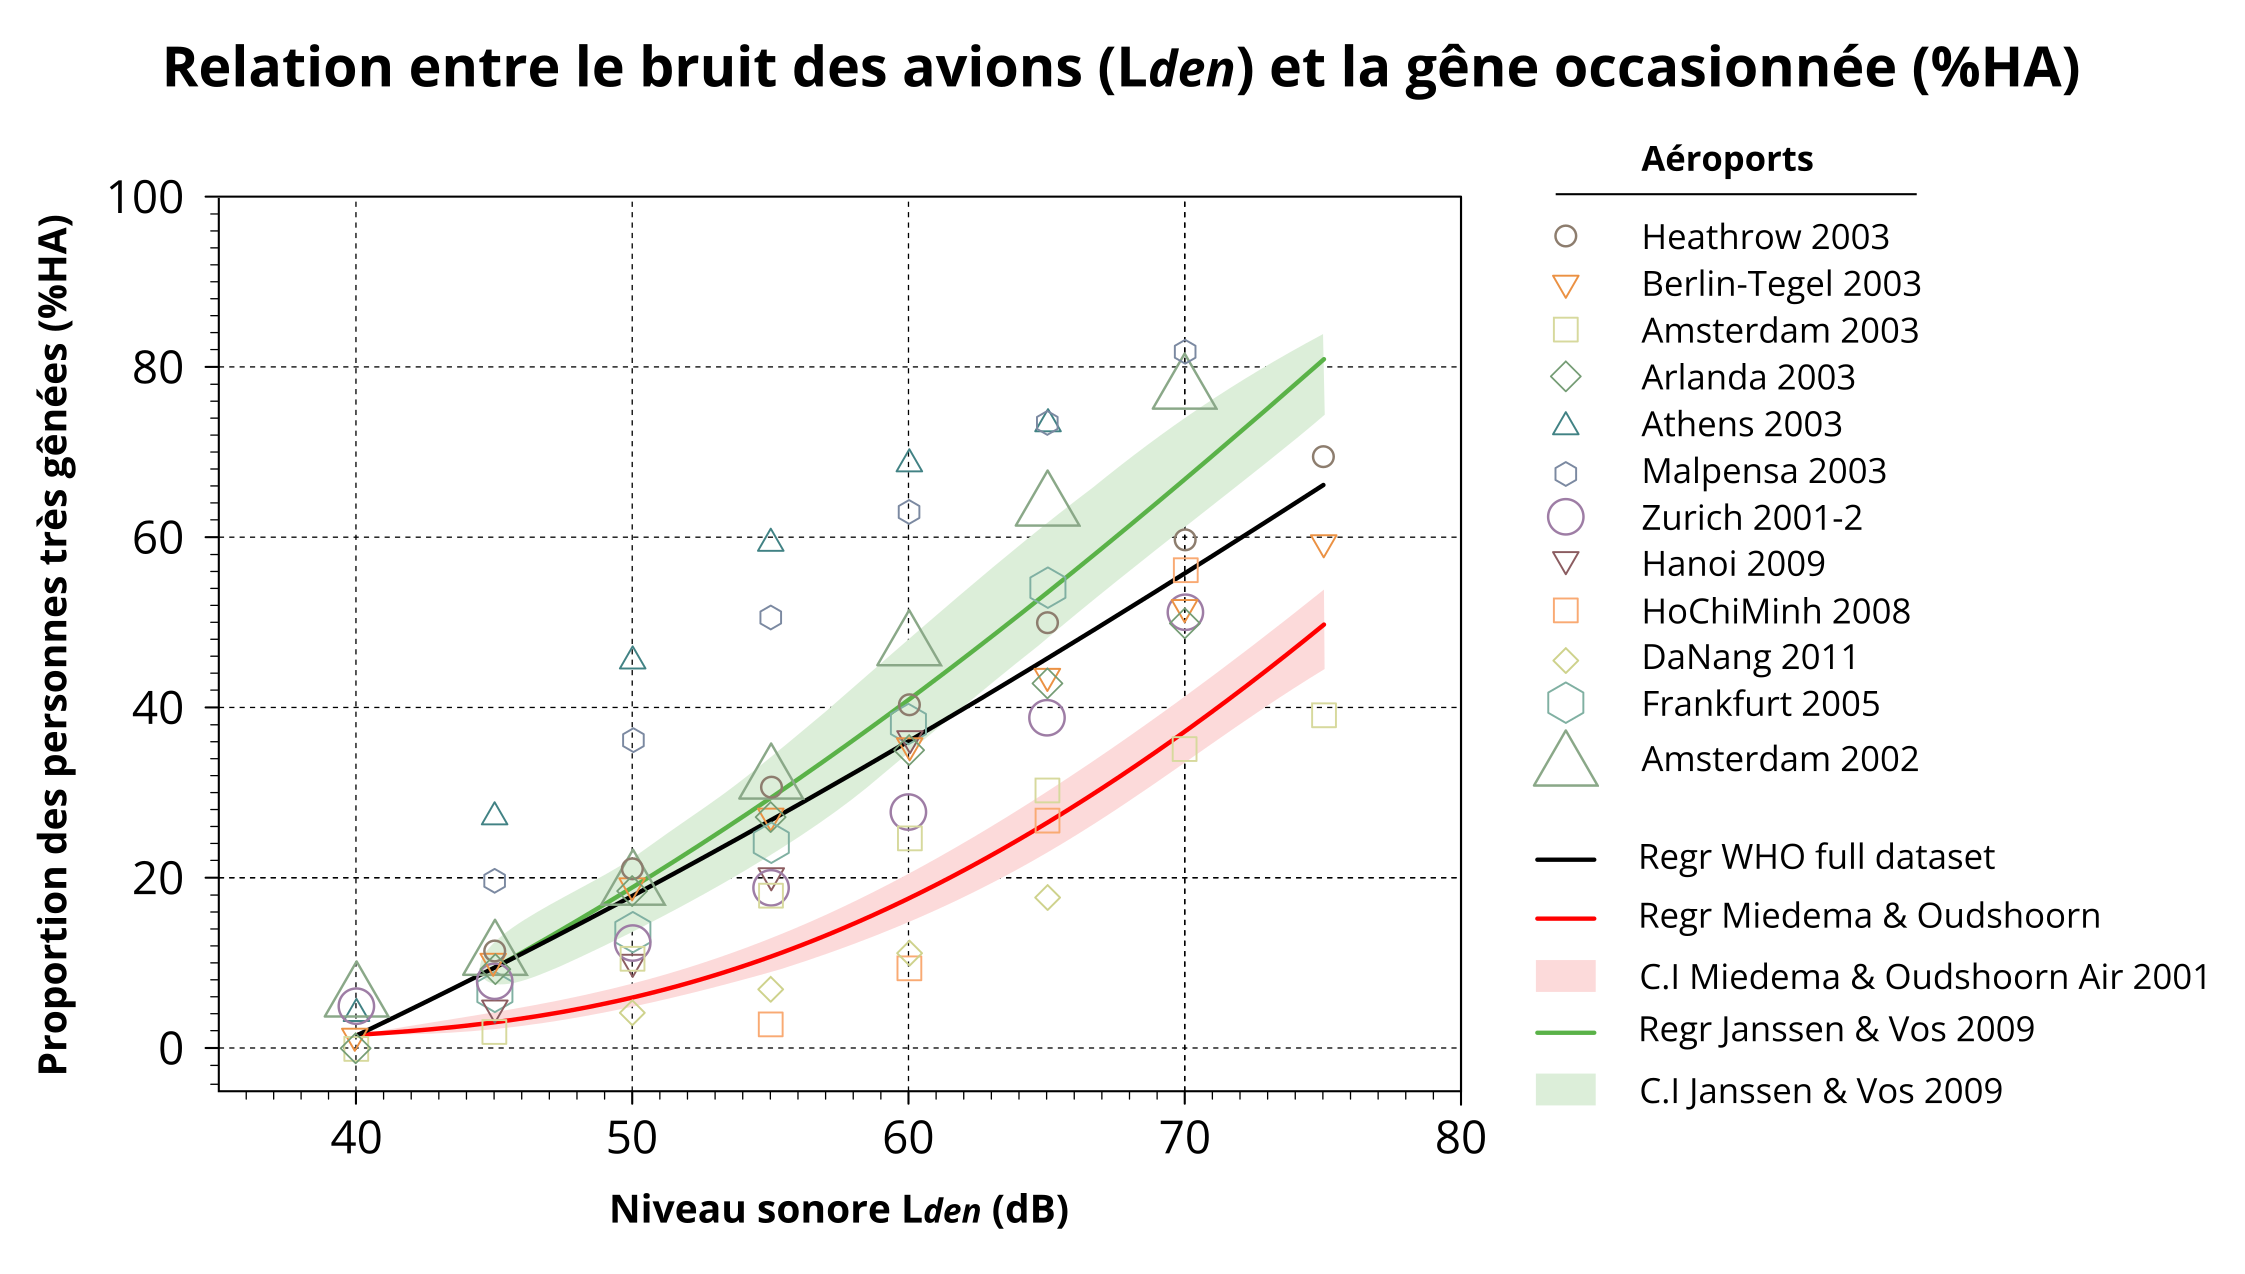
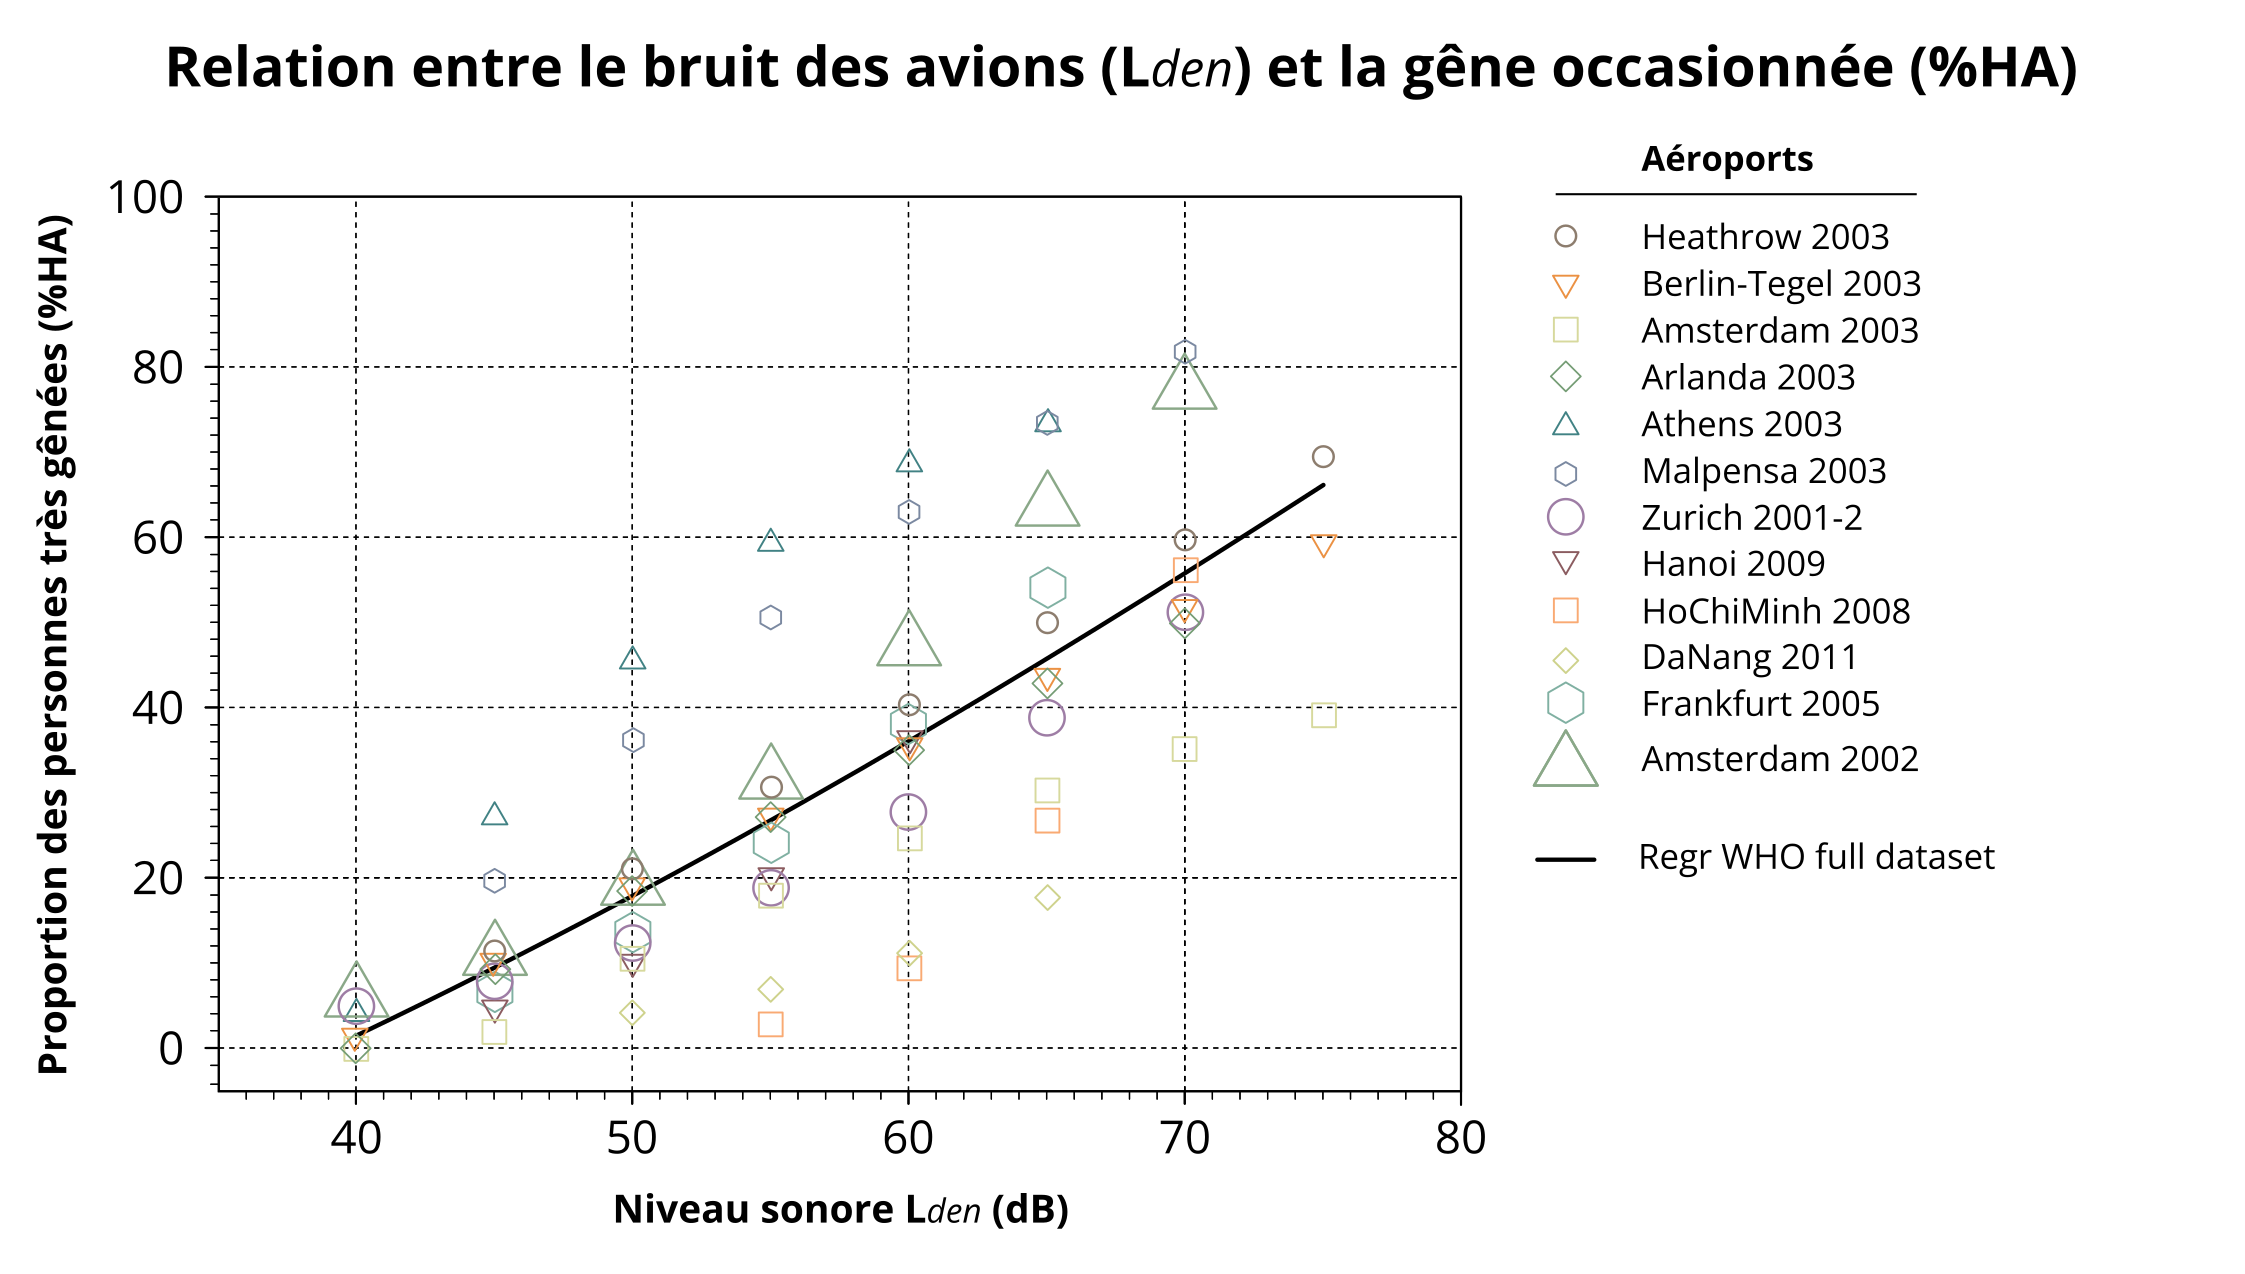
Update pedagogie

diff --git a/resultats/sonoreze_II/avion_pedagogie.html b/resultats/sonoreze_II/avion_pedagogie.html
@@ -320,28 +320,31 @@
             <div class="row justify-space-between py-2">
              
               <p>
-                 Les principales grandeurs physiques de l'acoustique sont la pression acoustique, la puissance et l'intensité du son. Les unités physiques de ces grandeurs, dans le système international, sont respectivement le Pascal (Pa), le Watt (W) et le Watt par mètre carré (W / m2). La puissance acoustique d'un petit drone est d'environ 0.000001W, tandis que celle d'un avion à réaction est d'environ 1 000 000W. Une telle gamme de valeurs à considérer amène l'acousticien à exprimer les quantités physiques en utilisant la fonction logarithme et une valeur qui sert de référence car cette approche comprime les échelles dans un intervalle pertinent.
-                <br><br>
-                Il résulte de cette échelle quelques éléments qui peuvent paraître contre-intuitifs pour les non-initiés, comme le fait que <b>rajouter 3 dB à un niveau sonore équivaut à doubler ce même niveau sonore</b>.
+                Les niveaux de bruit sont exprimés en <a href="" title="Les principales grandeurs physiques de l'acoustique sont la pression acoustique, la puissance et l'intensité du son. Les unités physiques de ces grandeurs, dans le système international, sont respectivement le Pascal (Pa), le Watt (W) et le Watt par mètre carré (W / m2). La puissance acoustique d'un petit drone est d'environ 0.000001W, tandis que celle d'un avion à réaction est d'environ 1 000 000W. Une telle gamme de valeurs à considérer amène l'acousticien à exprimer les quantités physiques en utilisant la fonction logarithme et une valeur qui sert de référence car cette approche comprime les échelles dans un intervalle pertinent."> décibels</a>. Il résulte de cette échelle quelques éléments qui peuvent paraître contre-intuitifs pour les non-initiés, comme le fait que <b>rajouter 3 dB à un niveau sonore équivaut à doubler ce même niveau sonore</b>.
                 <br><br>
                 Par exemple : <br>
                   &nbsp;- multiplier par deux le nombre d’avions augmente les niveaux de 3 décibels,<br>
                   &nbsp;- multiplier par dix le nombre d’avions augmente les niveaux de 10 décibels.<br>
                 </p>
+            </div><!-- row -->
                  <img src="../../assets/img/theme_avion/pedagogie_dB.png" alt="L'échelle des décibels" width=100%>
+            <br>
+            <br>
+            <div class="row justify-space-between py-2">
                 <p>
-                 Les choses se compliquent si on s’intéresse à la perception du bruit. En effet, l’oreille humaine a elle aussi une réponse non linéaire. Des études montrent que <b>le niveau sonore doit augmenter de 10 décibels pour avoir une impression de doublement de l’intensité sonore perçue</b>, une différence de 3 décibels étant à peine perçue.<br><br>
-                 Ainsi, <b>baisser le niveau sonore de 3 décibels est à peine perceptible, alors que réduire de moitié le nombre d’avions l’est…</b> Pour tenir compte de cela, de nombreux chercheurs, ainsi que l’OMS, recommandent de recourir à l’utilisation de nouveaux indicateurs, tels que les niveaux maximums LA<sub>max</sub>.
+                Les choses se compliquent si on s’intéresse à la perception du bruit. En effet, l’oreille humaine a elle aussi une réponse non linéaire. Des études montrent que <b>le niveau sonore doit augmenter de 10 décibels pour avoir une impression de doublement de l’intensité sonore perçue</b>, une différence de 3 décibels étant à peine perçue.<br><br>
+                Ainsi, <b>baisser le niveau sonore d’un avion de 3 décibels est à peine perceptible, alors que réduire de moitié le nombre d’avions l’est…</b> Pour tenir compte de cela, de nombreux chercheurs, ainsi que l’OMS, recommandent de recourir à l’utilisation de nouveaux indicateurs, tels que les niveaux maximums LA<sub>max</sub> <i>(voir la page <b><a href="../../pedagogie/indicateurs.html">Indicateurs</a></b>)</i>, ou bien des statistiques telles que le nombre d’évènements dépassant un seuil donné.
                 <br>
                 <br>
                 Pour plus de détails, n'hésitez pas à consulter la page <b><a href="../../pedagogie/notions.html">Notions</a></b>.
                 </p>
                 <h5 class="text-primary text-gradient">L'indicateur L<sub>DEN</sub></h5>
                 <p>
-                Comme présenté sur la page <b><a href="../../pedagogie/indicateurs.html">Indicateurs</a></b>, l'indicateur L<sub>DEN</sub> correspond au niveau équivalent (L<sub>Aeq</sub>) calculé sur une période de 24h. Ici "DEN" signifie "Day-Evening-Night" ("Jour-Soir-Nuit" en français), soit les 3 périodes réglementaires citées précédemment. <br><br>
-                
+                Comme présenté sur la page <b><a href="../../pedagogie/indicateurs.html">Indicateurs</a></b>, l'indicateur L<sub>DEN</sub> correspond au niveau équivalent (L<sub>Aeq</sub>) calculé sur une période de 24h. Ici "DEN" signifie "Day-Evening-Night" ("Jour-Soir-Nuit" en français), soit les 3 périodes réglementaires citées précédemment. 
+                <br>
+                <br>
                 Pour tenir compte du fait que le bruit est plus gênant en soirée et la nuit, des termes correctifs majorants de +5 dB(A) et +10 dB(A) sont appliqués en soirée et la nuit.<br><br>
-                Appliquée aux avions, cette règle implique qu'un avion passant le soir équivaut à 5 passages (en journée). De même, un passage la nuit équivaut à 10 survols.
+                Appliquée aux avions, cette règle implique qu'un avion passant le soir équivaut à 5 passages (en journée). De même, un passage la nuit équivaut à 10 survols. En France, la période retenue pour définir le soir est [18:00-22:00], et la période retenue pour définir la nuit est [22:00-06:00]. Ces périodes peuvent varier d’un pays à l’autre.
                 </p>
                 <img src="../../assets/img/theme_avion/pedagogie_lden.png" alt="L'échelle des décibels" width=100%>        
             </div><!-- row -->
@@ -380,14 +383,14 @@
               </p>
               <h5 class="text-primary text-gradient">La gêne</h5>
               <p>
-                De nombreux travaux prouvent l'existence d'un lien entre le bruit des avions et la gêne occasionnée. Des enquêtes ont été effectuées sur un nombre divers d’aéroport (Heathrow 2003, Berlin-Tegel 2003, Amsterdam 2003, etc., totalisant plus de 17000 répondants aux enquêtes de gêne. L’analyse de ces enquêtes a permis de dresser une relation donnant le nombre de personnes très gênées par le bruit en fonction du niveau sonore (indicateur L<sub>den</sub> estimé par des modèles) (Guski et al., 2017).
+                De nombreux travaux prouvent l'existence d'un lien entre le bruit des avions et la gêne occasionnée. Des enquêtes ont été effectuées sur un nombre divers d’aéroport (Heathrow 2003, Berlin-Tegel 2003, Amsterdam 2003, etc.), totalisant plus de 17000 répondants aux enquêtes de gêne. L’analyse de ces enquêtes a permis de dresser une relation donnant le nombre de personnes très gênées par le bruit en fonction du niveau sonore (indicateur L<sub>den</sub> estimé par des modèles) (Guski et al., 2017).
               </p>
                  <img src="../../assets/img/theme_avion/pedagogie_courbes_oms_avec_aeroports.png" alt="L'échelle des décibels" width=100%>
                  
               <p>
                 <br>
                 De plus, il est important de rappeler les points suivants : <br> 
-                  &nbsp;- Ces courbes représentent des chiffres moyens (par exemple, 18% des habitants sont très gênés par le bruit des avions pour un niveau L<sub>den</sub> de 50 dBA). On observe cependant de large disparités entre les individus, liées aux facteurs suivants : 
+                  &nbsp;- Ces courbes représentent des chiffres moyens (par exemple, 18% des habitants sont très gênés par le bruit des avions pour un niveau L<sub>den</sub> de 50 dBA). On observe cependant de large disparités entre les individus : pour deux individus exposés à un même niveau sonore, l’un.e peut être gêné.e et l’autre pas. De nombreux facteurs influencent en effet la gêne : 
               </p>
               <img src="../../assets/img/theme_avion/pedagogie_gene.png" alt="L'échelle des décibels" width=100%>
                 
@@ -398,12 +401,12 @@
 
               <h5 class="text-primary text-gradient">La perturbation du sommeil</h5>
               <p>
-                De la même manière, des relations ont été produites par l’OMS, sur la base de synthèse d’études scientifiques, reliant les niveaux de bruit nocturnes moyens (<i>Lnight</i>) au pourcentage de personnes très perturbées dans leur sommeil (HSD - <i>High Sleep Disturbance</i>) (Exemple : à 40dB la nuit, 11.3 pourcent de la population est très perturbée).
+                De la même manière, des relations ont été produites par l’OMS, sur la base de synthèse d’études scientifiques, reliant les niveaux de bruit nocturnes moyens (<i>Lnight</i>) au pourcentage de personnes très perturbées dans leur sommeil (HSD - <i>High Sleep Disturbance</i>) (Exemple : à 40dB la nuit, 11.3 % de la population est très perturbée).
               </p>
               <img src="../../assets/img/theme_avion/pedagogie_gene_hsd.png" alt="L'échelle des décibels" width=100%>
               <p>
                 <br>
-                Pour mieux prendre compte l’effet évènementiel L’OMS souligne l’intérêt d’utiliser des indicateurs événementiels, tels que la distribution des LA,max (niveaux de bruit maximums au passage des avions).
+                Pour mieux prendre compte l’effet évènementiel, l’OMS souligne l’intérêt d’utiliser des indicateurs événementiels, tels que la distribution des LA<sub>max</sub> (niveaux de bruit maximums au passage des avions).
               </p>
 
               <h5 class="text-primary text-gradient">Recommandations de l’OMS</h5>
